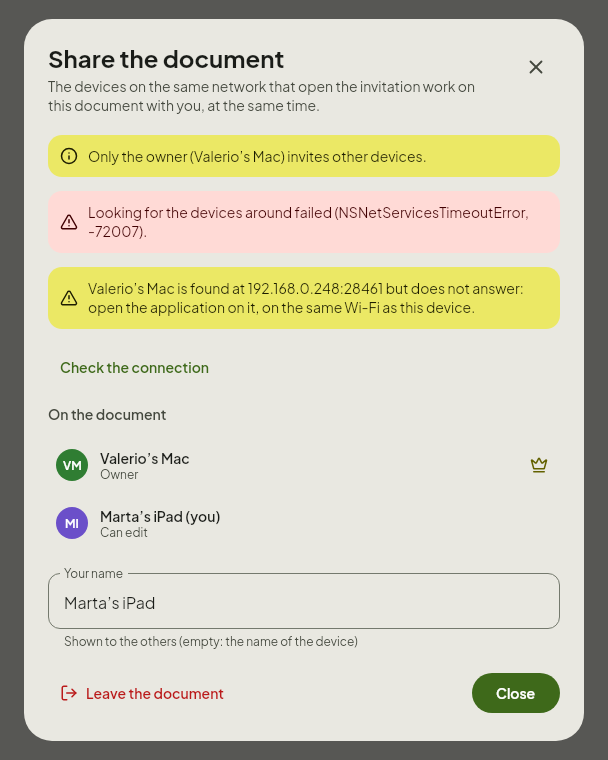
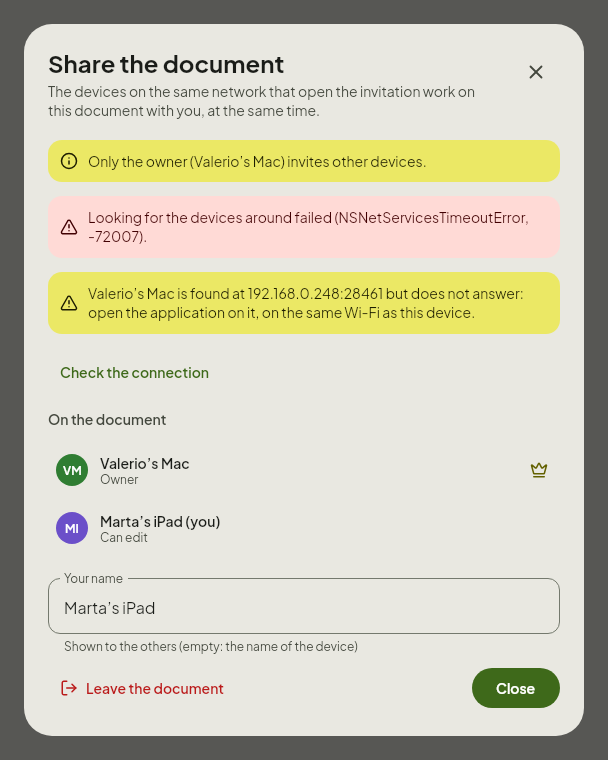
fix(ui): the menus, the popovers and the dialogs bounded to the window in landscape

diff --git a/pageboard-ui/src/commonMain/kotlin/io/github/valerioisufi/pageboard/ui/adaptive/WindowHeightLimit.kt b/pageboard-ui/src/commonMain/kotlin/io/github/valerioisufi/pageboard/ui/adaptive/WindowHeightLimit.kt
@@ -1,0 +1,28 @@
+package io.github.valerioisufi.pageboard.ui.adaptive
+
+import androidx.compose.foundation.layout.heightIn
+import androidx.compose.runtime.Composable
+import androidx.compose.ui.Modifier
+import androidx.compose.ui.platform.LocalDensity
+import androidx.compose.ui.platform.LocalWindowInfo
+import androidx.compose.ui.unit.Dp
+import androidx.compose.ui.unit.dp
+
+/**
+ * Bounds the height of a popup or a dialog to the window less [margin] above and below. Its
+ * content scrolling (the `verticalScroll` of the `DropdownMenu` of Material, the content of an
+ * [AdaptiveSheet]) is then measured with a bounded height, which the popups and the dialogs of iOS
+ * do not give it in landscape: a menu taller than the window stopped the application, and a dialog
+ * taller than it was cut instead of scrolling (see docs/plans/ios-stability.md).
+ */
+@Composable
+internal fun Modifier.windowHeightLimit(margin: Dp = WindowMargin): Modifier {
+    val height = with(LocalDensity.current) { LocalWindowInfo.current.containerSize.height.toDp() }
+    return heightIn(max = (height - margin * 2).coerceAtLeast(MinHeight))
+}
+
+/** The room a popup leaves to the window above and below it. */
+private val WindowMargin: Dp = 16.dp
+
+/** The lowest a popup is bounded to, in a window too low for its margins. */
+private val MinHeight: Dp = 48.dp

diff --git a/pageboard-ui/src/commonMain/kotlin/io/github/valerioisufi/pageboard/ui/components/ToolButton.kt b/pageboard-ui/src/commonMain/kotlin/io/github/valerioisufi/pageboard/ui/components/ToolButton.kt
@@ -43,6 +43,7 @@ import androidx.compose.ui.unit.dp
 import androidx.compose.ui.window.PopupProperties
 import io.github.valerioisufi.pageboard.ui.command.Command
 import io.github.valerioisufi.pageboard.ui.command.CommandTooltip
+import io.github.valerioisufi.pageboard.ui.adaptive.windowHeightLimit
 import io.github.valerioisufi.pageboard.ui.platform.UnfocusedPopupGuard
 import io.github.valerioisufi.pageboard.ui.platform.PopupSystemBarsEffect
 import io.github.valerioisufi.pageboard.ui.platform.popupTakesFocus
@@ -167,7 +168,7 @@ internal fun ToolPopover(
     val focusable = takesText || popupTakesFocus()
     if (expanded && !focusable) UnfocusedPopupGuard(onDismissRequest)
     DropdownMenu(
-        modifier = Modifier.width(300.dp).padding(horizontal = 16.dp, vertical = 8.dp),
+        modifier = Modifier.windowHeightLimit().width(300.dp).padding(horizontal = 16.dp, vertical = 8.dp),
         expanded = expanded,
         onDismissRequest = onDismissRequest,
         offset = offset,

diff --git a/pageboard-ui/src/commonMain/kotlin/io/github/valerioisufi/pageboard/ui/command/CommandMenu.kt b/pageboard-ui/src/commonMain/kotlin/io/github/valerioisufi/pageboard/ui/command/CommandMenu.kt
@@ -33,6 +33,7 @@ import androidx.compose.ui.unit.DpOffset
 import androidx.compose.ui.unit.dp
 import androidx.compose.ui.window.PopupProperties
 import io.github.valerioisufi.pageboard.ui.adaptive.currentAdaptiveInfo
+import io.github.valerioisufi.pageboard.ui.adaptive.windowHeightLimit
 import io.github.valerioisufi.pageboard.ui.platform.UnfocusedPopupGuard
 import io.github.valerioisufi.pageboard.ui.platform.PopupSystemBarsEffect
 import io.github.valerioisufi.pageboard.ui.platform.popupTakesFocus
@@ -136,7 +137,7 @@ internal fun DesignMenu(
     DropdownMenu(
         expanded = expanded,
         onDismissRequest = onDismissRequest,
-        modifier = modifier.padding(horizontal = 8.dp),
+        modifier = modifier.windowHeightLimit().padding(horizontal = 8.dp),
         offset = offset,
         shape = RoundedCornerShape(16.dp),
         containerColor = MaterialTheme.colorScheme.surfaceContainer,

diff --git a/pageboard-ui/src/commonMain/kotlin/io/github/valerioisufi/pageboard/ui/adaptive/AdaptiveSheet.kt b/pageboard-ui/src/commonMain/kotlin/io/github/valerioisufi/pageboard/ui/adaptive/AdaptiveSheet.kt
@@ -62,9 +62,9 @@ public fun AdaptiveSheet(
         BasicAlertDialog(
             onDismissRequest = onDismissRequest,
             modifier = if (wide) {
-                Modifier.padding(DialogMargin).widthIn(max = maxWidth).fillMaxWidth()
+                Modifier.padding(DialogMargin).windowHeightLimit(DialogMargin).widthIn(max = maxWidth).fillMaxWidth()
             } else {
-                Modifier.widthIn(max = maxWidth)
+                Modifier.windowHeightLimit(DialogMargin).widthIn(max = maxWidth)
             },
             properties = DialogProperties(usePlatformDefaultWidth = !wide)
         ) {

diff --git a/docs/plans/ios-stability.md b/docs/plans/ios-stability.md
@@ -49,7 +49,9 @@ The responsibilities are assigned following the GRASP principles.
 * **Protected Variations (the menus).** One modifier of `pageboard-ui`, `menuHeightLimit()`, bounds
   the height of a popup menu to the window (`LocalWindowInfo.containerSize`) less its margins;
   `DesignMenu` and `ToolPopover` give it to `DropdownMenu`, so the `verticalScroll` of Material is
-  always measured with a bounded height, whatever the popup of the platform gives it.
+  always measured with a bounded height, whatever the popup of the platform gives it. The dialog of
+  `AdaptiveSheet` takes it too: in landscape it was as tall as its content and cut by the window
+  ("New note" could not reach its button), now its content scrolls.
 * **Pure Fabrication (the thread of the texts).** `onTextLayoutThread { }`, `expect` in
   `pageboard-ui`: on iOS it runs its block on the main thread (directly there, else with
   `dispatch_sync` on the main queue), elsewhere in place. `ComposeTextTileAdapter` runs each of its
@@ -71,7 +73,7 @@ The responsibilities are assigned following the GRASP principles.
 
 | Step | Content | Status |
 |------|---------|--------|
-| 1 | The menus and the popovers bounded to the window (no crash in landscape) | planned |
+| 1 | The menus, the popovers and the dialogs bounded to the window (no crash in landscape, the dialogs scroll) | done |
 | 2 | The texts laid out on the main thread on iOS | planned |
 | 3 | The heads of a space: the vectors at once, computed once per change; one timer per document worked on | planned |
 | 4 | The presence built from what the stroke gained | planned |
@@ -96,6 +98,4 @@ Taken alone, revertible:
   between threads (to report to JetBrains).
 * Why the popup of Compose gives an infinite height in landscape on iOS (to report to JetBrains with
   a reproduction).
-* The dialog "New note" does not scroll in landscape on the iPhone, and its button "Create note"
-  cannot be reached.
 * A measure of the lag on the iPhone with Instruments, before and after phases 3 and 4.
